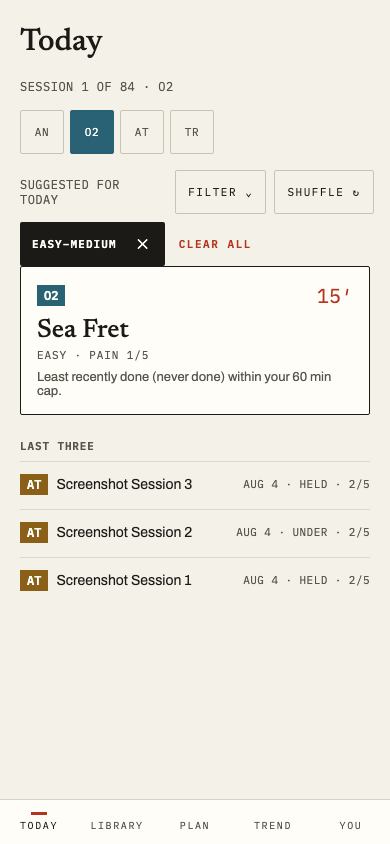
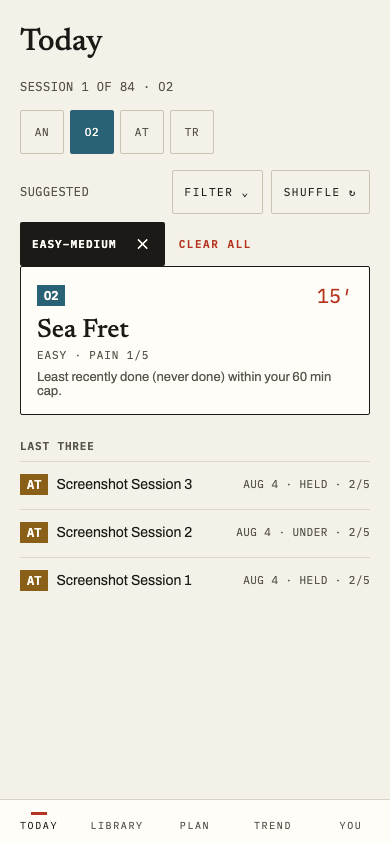
fix: the last wraps — one word shorter, one cell wider, one seam pinned
M1: Today's TIME group is the only 5-cell filter-sheet grid whose label
set has a genuinely wide word ("NO CAP"), so it gets its own scoped
className/CSS (filter-sheet-group-time) rather than touching the shared
.filter-sheet-cell/.filter-sheet-grid-5 rule Library's PAIN group also
uses — Library's screenshots stay byte-identical.

M2: the suggestion header label drops to "SUGGESTED" in both plan and
freestyle modes ("FOR TODAY" was redundant beside FILTER/SHUFFLE at
390px); updates the label's own test, a stale comment, and the two docs
(README.md, DEVIATIONS.md) that quoted the old copy.

m5: adds the missing dismiss-after-a-prior-apply client test — apply,
reopen, edit, dismiss, assert the saved record still holds the FIRST
apply, not the second draft or defaults. Verified against a mutation
that made dismiss write (test fails as expected, then passes once
reverted).

Re-captures today.png, today-sheet.png, and today-filtered.png (the
header label appears in all three states).

diff --git a/app/src/today/Today.test.tsx b/app/src/today/Today.test.tsx
@@ -633,6 +633,73 @@ describe("Today (FILTER sheet)", () => {
     expect(easyChip).toHaveAttribute("aria-pressed", "false");
   });
 
+  // m5 (final fix wave, 2026-08-04 round final review): both existing
+  // dismiss tests ("dismissing (Escape) drops the draft" above, and the
+  // e2e backdrop-tap sweep) start from a record that was NEVER written and
+  // assert the storage key stays `null` — they can't tell "dismiss doesn't
+  // write" apart from "dismiss discards a SECOND draft, leaving the FIRST
+  // applied record in place" apart from "dismiss quietly resets to
+  // defaults." This is the one that actually exercises the seam between
+  // `draft` (the sheet's own scratch state) and `overrides` (the saved
+  // record `draft` is re-seeded from on every open) once a real record
+  // already exists — the case a regression that made dismiss write would
+  // slip straight through both existing tests.
+  it("dismiss after a prior Apply leaves the FIRST applied record untouched — not the second draft, not defaults", async () => {
+    mockReady();
+    await renderToday();
+
+    // First apply: drop HARD, keep EASY/MEDIUM. This is now the one and
+    // only saved record until something else writes it.
+    await openFilterSheet();
+    await userEvent.click(screen.getByRole("button", { name: "HARD" }));
+    await userEvent.click(
+      screen.getByRole("button", { name: /^Show \d+ options?$/ }),
+    );
+    expect(
+      JSON.parse(localStorage.getItem(TODAY_OVERRIDES_KEY)!) as TodayOverrides,
+    ).toMatchObject({ difficulties: ["easy", "medium"] });
+
+    // Reopen and edit the draft further — drop EASY too — but never apply
+    // this second edit.
+    await openFilterSheet();
+    expect(screen.getByRole("button", { name: "HARD" })).toHaveAttribute(
+      "aria-pressed",
+      "false",
+    );
+    await userEvent.click(screen.getByRole("button", { name: "EASY" }));
+    expect(screen.getByRole("button", { name: "EASY" })).toHaveAttribute(
+      "aria-pressed",
+      "false",
+    );
+
+    // Dismiss (Escape) instead of Apply.
+    await userEvent.keyboard("{Escape}");
+    expect(screen.queryByRole("dialog")).not.toBeInTheDocument();
+
+    // The saved record is still the FIRST apply's state — not the second
+    // draft (["medium"] only, EASY dropped too) and not `filterDefaults`
+    // (all three difficulties, CLEAR ALL's own reset shape).
+    expect(
+      JSON.parse(localStorage.getItem(TODAY_OVERRIDES_KEY)!) as TodayOverrides,
+    ).toMatchObject({ difficulties: ["easy", "medium"] });
+
+    // Reopening confirms the sheet re-seeds from that same untouched
+    // record too, not from the discarded second draft.
+    await openFilterSheet();
+    expect(screen.getByRole("button", { name: "EASY" })).toHaveAttribute(
+      "aria-pressed",
+      "true",
+    );
+    expect(screen.getByRole("button", { name: "MEDIUM" })).toHaveAttribute(
+      "aria-pressed",
+      "true",
+    );
+    expect(screen.getByRole("button", { name: "HARD" })).toHaveAttribute(
+      "aria-pressed",
+      "false",
+    );
+  });
+
   it("focus returns to FILTER ⌄ once the sheet closes via Apply", async () => {
     mockReady();
     await renderToday();
@@ -1478,7 +1545,7 @@ describe("Today (F2: session resume / unlogged)", () => {
     // the brief's own "most prominent element" placement.
     const main = document.querySelector("main")!;
     expect(main.textContent!.indexOf("SESSION IN PROGRESS")).toBeLessThan(
-      main.textContent!.indexOf("SUGGESTED FOR TODAY"),
+      main.textContent!.indexOf("SUGGESTED"),
     );
   });
 

diff --git a/app/src/today/Today.tsx b/app/src/today/Today.tsx
@@ -781,15 +781,15 @@ function TodayView({
 
       <div className="today-suggestion-header">
         <span className="mono-status">
-          {/* usesPlan/freestyle, never pick-state — suggestion.reason already
-              says "YOUR PICK — …" when pickOverride is set, so this label
+          {/* Final fix wave (2026-08-04 round, M2): "SUGGESTED FOR TODAY"
+              wrapped to two lines beside FILTER/SHUFFLE at 390px — "FOR
+              TODAY" was redundant on the Today screen anyway, so the label
+              is just "SUGGESTED" in both modes now (freestyle already used
+              that). Never pick-state — suggestion.reason already says
+              "YOUR PICK — …" when pickOverride is set, so this label
               staying constant avoids saying the same thing twice in two
               different places on the card. */}
-          {suggestion.recommendationId
-            ? usesPlan
-              ? "SUGGESTED FOR TODAY"
-              : "SUGGESTED"
-            : ""}
+          {suggestion.recommendationId ? "SUGGESTED" : ""}
         </span>
         <div className="today-suggestion-actions">
           {/* Task 2 (2026-08-04 round): DIFFICULTY/TIME/PAIN's three inline

diff --git a/app/src/index.css b/app/src/index.css
@@ -784,6 +784,26 @@ button:disabled {
   font-weight: 600;
 }
 
+/* Final fix wave (2026-08-04 round, M1): Today's TIME group is the only
+   `.filter-sheet-grid` in the app whose 5 equal-share columns (fix round
+   1's `grid-auto-columns: 1fr`) have to hold a genuinely wide label —
+   "NO CAP" — at 390px; Library's own 5-cell PAIN group lands on the same
+   column math but only ever holds single digits. Scoped to
+   `TodayFilterSheet.tsx`'s own `className="filter-sheet-group-time"`
+   (CellGrid's existing passthrough, same mechanism `.filter-sheet-group-
+   half` already uses) rather than to `.filter-sheet-grid-5` — the latter
+   is shared with Library's PAIN group (m8: it's cell-count-derived, not
+   group-derived) and would resize PAIN's cells too. `white-space: nowrap`
+   plus one step down in size/tracking is enough for "NO CAP" to clear the
+   ~60px column at 390px without breaking `.filter-sheet-cell`'s own
+   `height: var(--tap)` — verified against a live capture, not eyeballed. */
+.filter-sheet-group-time .filter-sheet-cell {
+  padding: 0 2px;
+  font-size: 10px;
+  letter-spacing: 0.03em;
+  white-space: nowrap;
+}
+
 .library-empty {
   padding: 24px 0;
   color: var(--ink-3);

diff --git a/app/src/today/TodayFilterSheet.tsx b/app/src/today/TodayFilterSheet.tsx
@@ -111,6 +111,17 @@ export default function TodayFilterSheet({
 
       <CellGrid
         label="TIME"
+        // Final fix wave (2026-08-04 round, M1): scoped to this group alone
+        // via CellGrid's own `className` passthrough (already used by
+        // Library's LAST DONE/SOURCE half-width pair) — "NO CAP" is the one
+        // label in the whole app that doesn't fit a filter-sheet-cell's
+        // equal-fifth share of the 390px sheet width (index.css's own
+        // `.filter-sheet-group-time` rule). Library's 5-cell PAIN group
+        // shares the same `filter-sheet-grid-5` class (cell-count-derived,
+        // m8) but single digits never need it, so scoping to this group by
+        // name — not by cell count — keeps Library's rendering byte-for-
+        // byte unchanged.
+        className="filter-sheet-group-time"
         cells={CAP_CHIPS.map(({ value, label }) => ({
           value: value === null ? "none" : String(value),
           label,

diff --git a/app/src/today/todayOverrides.ts b/app/src/today/todayOverrides.ts
@@ -1,7 +1,7 @@
 import type { Difficulty, WorkoutType } from "../../domain/types.js";
 
 /** localStorage key for Today's client-side filter/swap overrides — visible,
- *  rower-editable narrowing of what SUGGESTED FOR TODAY considers, layered
+ *  rower-editable narrowing of what the Today suggestion considers, layered
  *  on top of the server's own preferences (Task 1's `SuggestPrefs`) without
  *  writing back to them. Same storage (localStorage, not sessionStorage) and
  *  the same `{date, planKey, doneN}` invalidation contract as todayPick.ts's

diff --git a/docs/design/DEVIATIONS.md b/docs/design/DEVIATIONS.md
@@ -45,7 +45,7 @@ here. These are intentional product decisions (spec:
 | N/A — the Log screen's own handoff (`docs/design/README.md` §7) has no notion of a plan whatsoever, let alone a way to keep a logged session from advancing one | A single full-width toggle row (`.log-plan-toggle`, `LogSession.tsx`'s `LogScreen`) above Save, rendered on both doors only when `plan.planKey !== null`: default reads `COUNTS TOWARD PLAN · SESSION {doneN+1} OF {sequence.length}`, tapped reads `OUTSIDE THE PLAN — won't advance`. The server pairs it with an additive `advancesPlan` boolean (`POST /api/logs`, defaults to `true`) that gates only the `plan_state` upsert inside `logs.ts`'s `create` transaction — the log row itself always inserts regardless | Task 3 (Today enhancements, post-6C): a rower doing a genuine make-up session, or logging a workout twice in one day, had no way to record it without also silently advancing plan progress meant for one real session. The toggle is door-independent (`useLogForm`'s own state, not per-door) since nothing about it differs between the session and manual doors. A plan-hook error, or the plan fetch simply still being in flight, deliberately does NOT block Save or hide the rest of the form — only the toggle itself disappears until the plan resolves with an active plan — since logging a session must never be hostage to an unrelated fetch failing or stalling (fix round 2, whole-branch review M1/M2: an earlier version of this door DID gate the whole form on the plan fetch resolving, which parked a STALLED `/api/plan` request at LOADING… forever) |
 | ui-fix handoff's own two-idiom button vocabulary (`.button-primary`/`.button-outline` only) | A third idiom, level 3 "commit-in-card": solid `--ink`, mono 12/600/0.16em, 48px (`.button-l3`, index.css) — the builder step editor's `DONE` and, in a future task, staged baseline `Apply` | Task 1 (ui-fix round): an in-card confirm that closes an editor without leaving the screen must not compete visually with the screen's own level-1 primary action. Ink reads as "settled/committed" without any risk of being mistaken for the screen's one accent-filled action — DONE "was already black" before this task (an un-named one-off, `.step-editor-done`), formalized here into a shared, reusable class |
 | ui-fix handoff's own two-idiom button vocabulary | A fourth idiom, level 4 "destructive": surface fill, 1px **accent-outlined** border, accent label (`.button-l4`) — Delete workout, and (Tasks 2-3) Discard without logging at rest. An "armed" variant (`.button-l4-armed`) fills solid accent with cream label once tapped once | Task 1 (ui-fix round): the README's own accent usage was solid-only; a destructive control needs a danger signal (accent) without a solid block competing with the screen's own happy-path L1. Last in the stack, under a 1px `--rule` divider (`.action-stack-rule`) — visually and structurally separated from the safe actions above it |
-| N/A — the handoff's own full-width-stack rule (this round) has no stated exception | SHUFFLE (Today.tsx) stays sub-full-width — 44px chip geometry (`.today-shuffle`), not a stacked block — parked at the right of the `SUGGESTED FOR TODAY` header row, position unchanged | Task 1 (ui-fix round), James's explicit call: SHUFFLE reads as a small utility beside a label, not a screen-level action competing for the one L1 slot. It stops being its own bespoke species regardless (was `.button-outline` wearing an ink border; now genuine chip geometry — transparent fill, `--rule-3` border, mono 11px/0.14em `--ink-1` label, dashed border when disabled) |
+| N/A — the handoff's own full-width-stack rule (this round) has no stated exception | SHUFFLE (Today.tsx) stays sub-full-width — 44px chip geometry (`.today-shuffle`), not a stacked block — parked at the right of the `SUGGESTED` header row (originally `SUGGESTED FOR TODAY`; shortened by the 2026-08-04 round's final fix wave, M2 — see the row below), position unchanged | Task 1 (ui-fix round), James's explicit call: SHUFFLE reads as a small utility beside a label, not a screen-level action competing for the one L1 slot. It stops being its own bespoke species regardless (was `.button-outline` wearing an ink border; now genuine chip geometry — transparent fill, `--rule-3` border, mono 11px/0.14em `--ink-1` label, dashed border when disabled) |
 | N/A — same rule, same round | Transport (`◀ Pause ▶`) and steppers (`− +`) stay in a row, exempt from the full-width-stack rule | Task 1 (ui-fix round): both are one compound control (three positions of a single "advance the session"/"adjust one number" action), not several independent actions competing for stack position — stacking them full-width would misrepresent them as separate choices |
 | Today's own accent-filled active type chip (a pre-existing bug the DESIGN.md handoff calls out by name) | Today's type-swap chips fill with THEIR OWN type colour when active (`--type-an/o2/at`, `--type-tr` = `--ink`), identical to Builder's ClassificationCard — never a flat accent regardless of which type is active | Task 1 (ui-fix round): DESIGN.md's selected-state fix — "accent now means exactly four things... it no longer means selected." Today and Builder now render the identical chip for the identical type, whether the rower is filtering or authoring. Builder's own TYPE chips were already correct before this task; Today's were the bug |
 | DESIGN.md/this round's own task-1 brief cite `--ink-1` for SHUFFLE's label; `tokens.css`'s ink scale has always started at unsuffixed `--ink`, with no `--ink-1` | `--ink-1` added to `tokens.css` as a literal alias of `--ink` (`#1b1a17`) | Task 1: rather than silently substituting `--ink` at the one call site the handoff names, the token now exists under the name both handoff documents actually use — closes the gap for future readers of either document |
@@ -54,6 +54,7 @@ here. These are intentional product decisions (spec:
 | The handoff's own State section names `paceTolerance` (0–3s, default 1) and `accentColor` (default `#b5341f`) as "configurable design props," treated as settings rather than hard-coded values | Both persist server-side as real preference fields (`preferences.pace_tolerance_seconds`, `preferences.accent_color`; `PUT /api/prefs` validates and echoes both, 0–10 for tolerance) but are read by nothing client-side — neither is even in `usePreferences.ts`'s own `PreferencesData` type, and a repo-wide grep for `paceTolerance`/`accentColor` outside the server layer returns nothing | Fix round 2 (whole-branch review, James's ruling, Option A): a coherent family of "settings the client hasn't built yet," not two unrelated orphans — Phase 9's own backlog already lists "Pace tolerance (0–3 s) and accent color as real settings." Removing the columns would need a destructive migration for fields a shipped iOS build may already be sending, for no gain; keeping them documented here means the next reviewer doesn't re-litigate whether they're dead code. The client-side chain that used to READ tolerance (`toleranceRange`, `phases()`'s `_tol`, `buildRun()`'s `tol`, `Countdown.tsx`'s `readPaceTolerance`, `tokens.css`'s `--pace-tolerance`) is deleted — see row 52 above — since it had zero importers outside its own unit test and fed a token nothing ever wrote |
 | Mockup's timer sub-line shows a zero-offset ref with an explicit `+0` (`6K +0`) | `domain/pace.ts`'s `refLabel` renders a zero offset as the bare base instead (`6K`, no `+0`) — shared verbatim with the log-step chips' identical rule (`logDraft.ts`'s `refPaceLabel`) | Whole-branch review L3, James's ruling 2026-08-04: leave as-is. `refLabel` is one function shared by the Timer's sub-line and the already-shipped log-step labels, so adding `+0` would also change existing log-step copy and its pinned tests for a cosmetic zero — not worth the churn |
 | N/A — the handoff's own selected-state fix (row 49 above) only ever describes Today's type-swap chips; it never states what `--type-tr` itself resolves to as a token | `--type-tr` aliases `var(--ink)` (`tokens.css`), not its own colour and not `--accent` | Fix round 1, James's ruling: `--type-tr` used to be the literal hex `#b5341f` — IDENTICAL to `--accent` — so every TR badge/chip (Library rows, LAST THREE, Plan, Today's type-swap chip, Builder's TYPE chip) filled with what was structurally "accent," quietly breaking this round's own "accent means exactly four things, never a fifth type" rule for one type out of four. TR now repaints app-wide to read as ink everywhere, the same colour `--type-test` already used (`TypeBadge.tsx` pairs it with `--on-color` text, the identical 17.1:1 pairing TEST badges already prove safe). This is a deliberate, app-wide visual change, not collateral — recorded here because two authorities (this file's own row 49 and `docs/design/README.md`) still asserted `--type-tr = --accent` after the fix shipped |
+| `docs/design/README.md`'s own Screens section (§1, frozen handoff record): the suggestion header's state label reads `SUGGESTED FOR TODAY` (or `YOUR PICK`) | Today's suggestion header label (`Today.tsx`) reads plain `SUGGESTED` in both plan and freestyle modes — never `SUGGESTED FOR TODAY` | 2026-08-04 round, final fix wave (M2), the controller's adjudicated ruling: at 390px, `SUGGESTED FOR TODAY` plus the `FILTER ⌄`/`SHUFFLE ↻` chip pair (Task 2, same round) no longer fit `.today-suggestion-actions`'s available width and wrapped to two lines — a regression this round introduced (the label sat alone, full-width, before the chips joined it). "FOR TODAY" was redundant on a screen whose only subject is today, and freestyle's own suggestion state already used the shorter `SUGGESTED` — so the fix drops the plan-mode-only branch entirely rather than reflowing the header, and both modes now share the one label |
 
 Superseded by the builder redesign (`docs/design/builder-redesign/`, Phase
 5E): the permanently-expanded row list (`StepRowEditor.tsx`, deleted this

diff --git a/docs/design/README.md b/docs/design/README.md
@@ -110,7 +110,7 @@ pool      = library.filter(type === todayCode)
             || (empty → unfiltered type list)
 rec       = todayPick ?? pool[0]
 ```
-Badge reads SUGGESTED FOR TODAY, or YOUR PICK when `todayPick` is set. SHUFFLE picks a
+Badge reads SUGGESTED, or YOUR PICK when `todayPick` is set. SHUFFLE picks a
 random other member of `pool`. Changing the preference chips clears `todayPick`.
 
 ---
